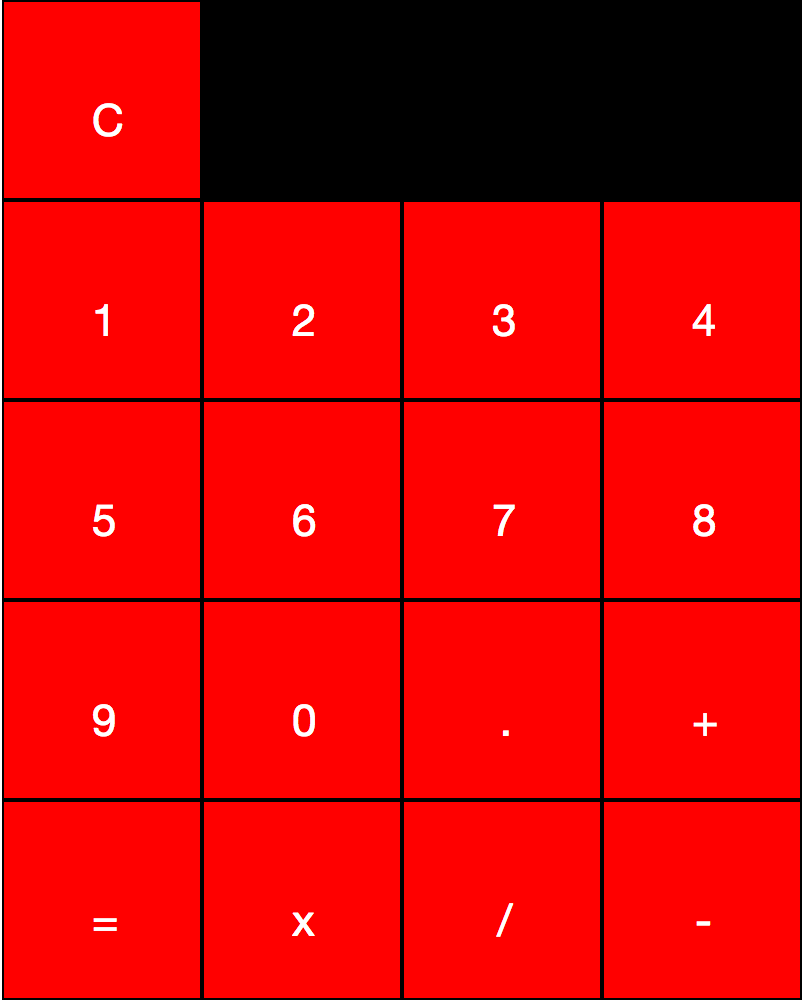
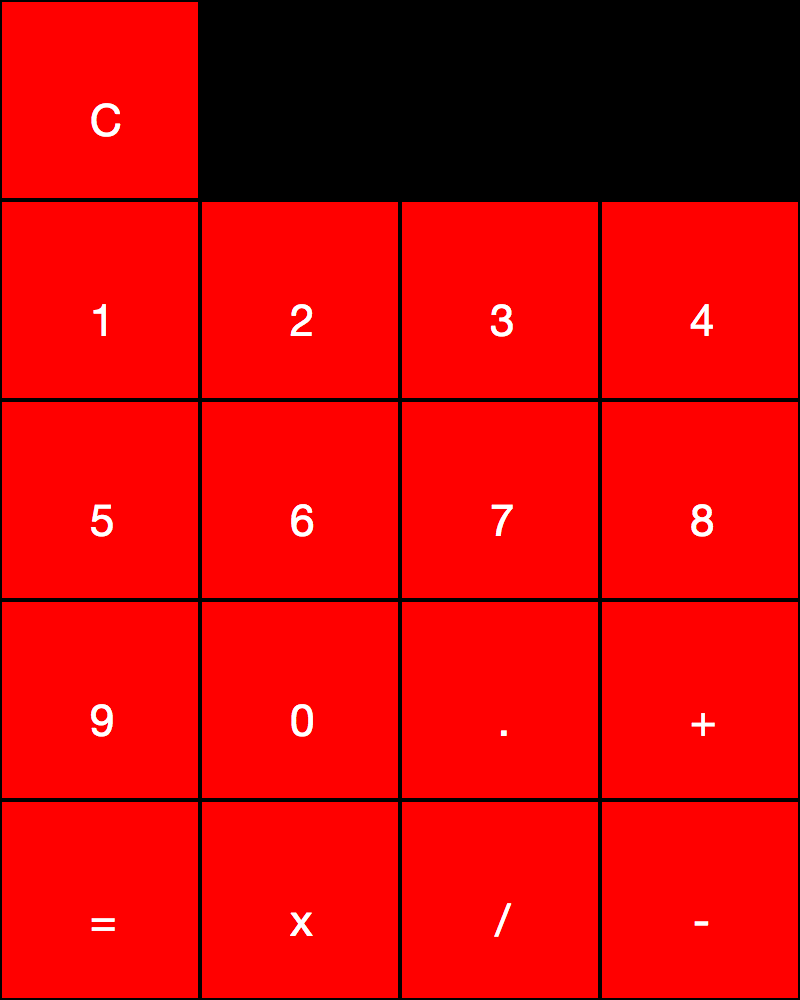
added calculator project to portfolio page

diff --git a/index.html b/index.html
@@ -19,13 +19,22 @@
           </div>
       </div>
 
-      <div class="container text-center">
+      <div class="container text-center projects">
+        <div class="row projectTitle">
+          CALCULATOR
+        </div>
+
         <div class="row">
-          <div class="projects" id="Calculator">
-            <div class="col-xs-6" id="calculatorImg">
-              <div class="col-xs-6 description">
-              </div>
-            </div>
+          <a href="calculator.html"class="col-xs-6" id="calculatorImg"></a>
+          <div class="col-xs-6 description">
+            <ul class="projectDes">
+              <li>TEST</li>
+              <li>TEST</li>
+              <li>TEST</li>
+              <li>TEST</li>
+              <li>TEST</li>
+              <li>TEST</li>
+            </ul>
           </div>
         </div>
       </div>
@@ -40,7 +49,12 @@
       </ul>
     </div>
     <script src="https://ajax.googleapis.com/ajax/libs/jquery/2.1.3/jquery.min.js"></script>
-    <script src="//cdnjs.cloudflare.com/ajax/libs/ScrollMagic/2.0.5/ScrollMagic.min.js"></script>
+    <!-- <script src="//cdnjs.cloudflare.com/ajax/libs/ScrollMagic/2.0.5/ScrollMagic.min.js"></script>
+    <script src="https://cdnjs.cloudflare.com/ajax/libs/ScrollMagic/2.0.5/ScrollMagic.js"></script>
+    <script src="https://cdnjs.cloudflare.com/ajax/libs/ScrollMagic/2.0.5/plugins/animation.gsap.js"></script>
+    <script src="https://cdnjs.cloudflare.com/ajax/libs/ScrollMagic/2.0.5/plugins/animation.velocity.js"></script>
+    <script src="https://cdnjs.cloudflare.com/ajax/libs/ScrollMagic/2.0.5/plugins/debug.addIndicators.js"></script>
+    <script src="https://cdnjs.cloudflare.com/ajax/libs/ScrollMagic/2.0.5/plugins/jquery.ScrollMagic.js"></script> -->
     <script type="text/javascript" src="/js/main.js"></script>
   </body>
 </html>

diff --git a/css/main.css b/css/main.css
@@ -6,7 +6,9 @@ body{
   position: fixed;
   top: 0;
   width: 100%;
-  background-color: #9E0000
+  background-color: #9E0000;
+  margin-bottom: 5px;
+  z-index: 2;
 }
 .nav-bar-link{
   display: inline-block;
@@ -33,7 +35,7 @@ body{
 .menu{
   display: flex;
   position: fixed;
-  z-index: 1;
+  z-index: 2;
   right: 0;
   top: 0;
   height: 100%;
@@ -69,7 +71,7 @@ body{
   padding-top: 5px;
   padding-right: 3vw;
   cursor: pointer;
-  z-index: 2;
+  z-index: 3;
   color: #FFEEED;
   font-size: 2vh;
   position: absolute;
@@ -95,16 +97,31 @@ body{
 
 /****************** PROJECTS ***************/
 .projects{
-  background-color: #FFEEED;
   height: 100vh;
   background-position: center;
   background-repeat: no-repeat;
   background-size: cover;
 }
+.projectTitle{
+  font-family: ostrichSansBold;
+  font-size: 6vw;
+  color: #FFEEED;
+  padding-top: 5px;
+}
 /***************** CALCULATOR **************/
 #calculatorImg{
-  content: url('/img/Calculator.png');
+  content: url('/img/calculator.png');
+  background-color: inherit;
   padding-top: 5em;
+}
+ul.projectDes{
+  list-style: none;
+  padding-top: 100px;
+}
+.projectDes li{
+  color: #FFEEED;
+  font-size: 4vw;
+  font-family: ostrichSansBold;
 }
 /****************** FONTS ******************/
 
@@ -115,4 +132,9 @@ body{
 @font-face {
   font-family: ostrichSansBold;
   src: url("/fonts/OstrichSansInline-Regular.otf");
+}
+@font-face {
+  font-family: OstrichSansLight;
+  src: url('/fonts/OstrichSans-Light');
+
 }

diff --git a/js/main.js b/js/main.js
@@ -52,6 +52,5 @@
       dropDown.css("display","inline-block");
     }
 
-
-
+    /******************** PROJECTS **************/
 // });
